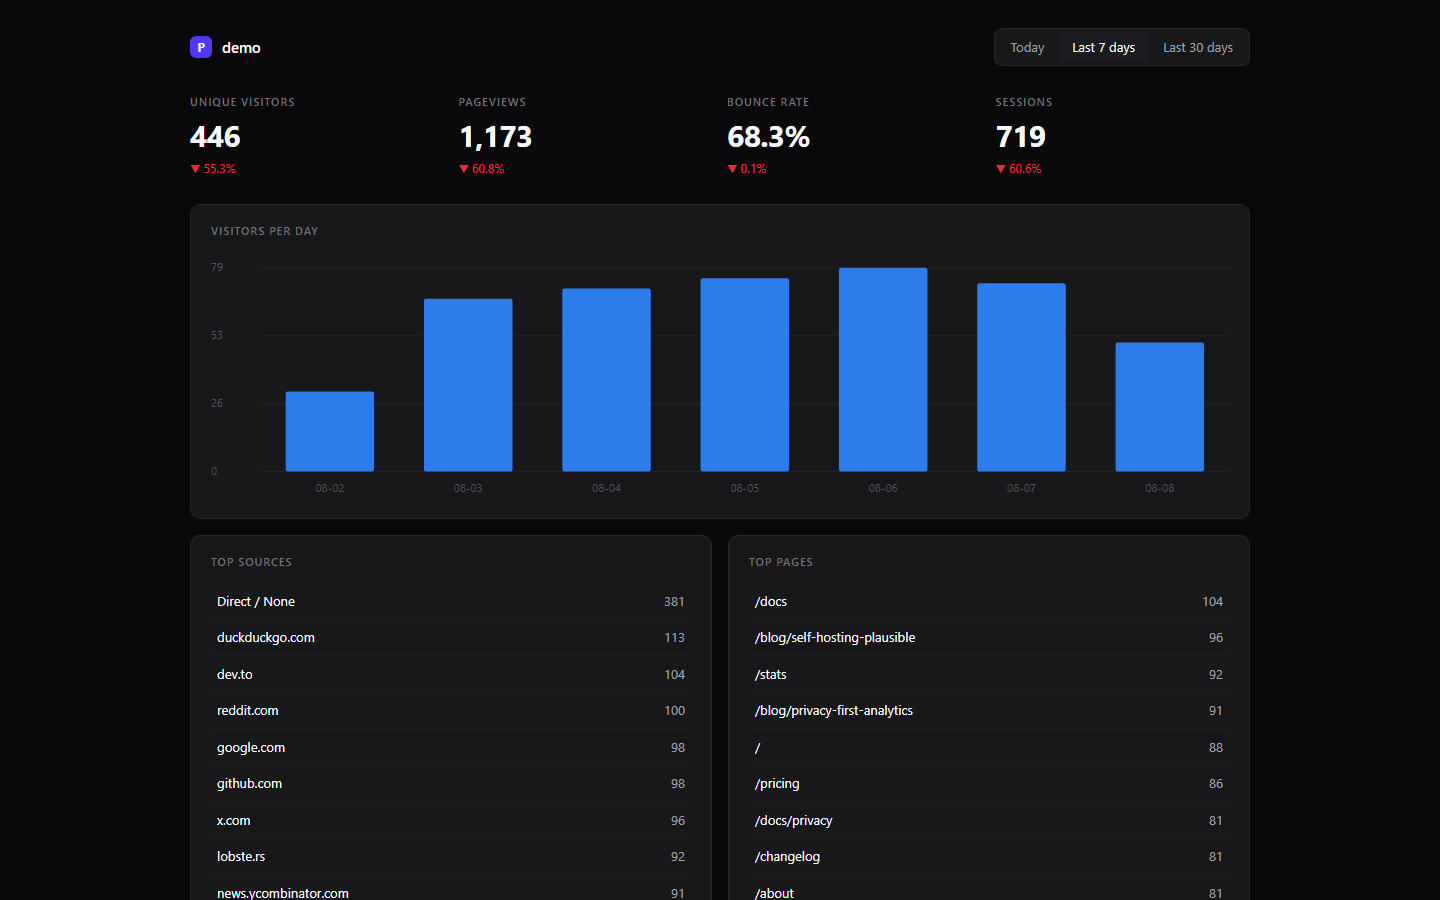
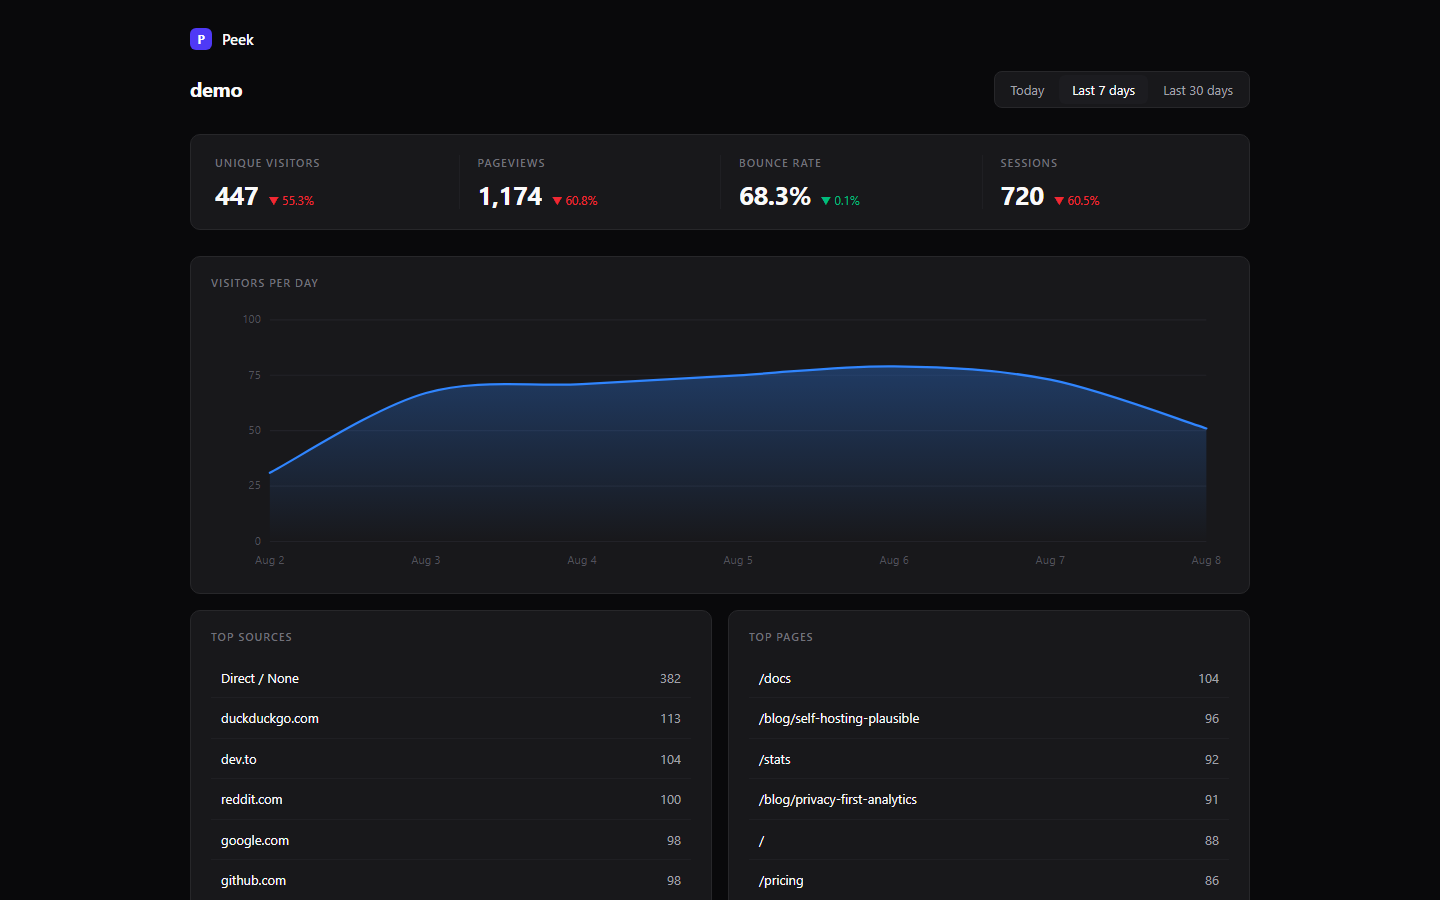
round 2: area chart (gradient, smooth curve, day labels), carded KPIs with dividers, two-row header, roomier tables, bounce trend inversion, trust-proxy loopback, README privacy ceilings

diff --git a/views/dashboard.html b/views/dashboard.html
@@ -10,34 +10,44 @@
 html{color-scheme:dark}
 body{background:var(--bg);color:var(--txt);font:14px/1.5 system-ui,-apple-system,"Segoe UI",Roboto,sans-serif;-webkit-font-smoothing:antialiased}
 .wrap{max-width:1100px;margin:0 auto;padding:28px 20px 64px}
-.top{display:flex;align-items:center;justify-content:space-between;gap:16px;margin-bottom:28px}
-.brand{display:flex;align-items:center;gap:10px;font-weight:600;font-size:15px;letter-spacing:-.01em}
+.brand{display:flex;align-items:center;gap:10px;font-weight:600;font-size:15px;letter-spacing:-.01em;margin-bottom:20px}
 .mark{width:22px;height:22px;border-radius:6px;background:#4f39f6;color:#fff;display:inline-flex;align-items:center;justify-content:center;font-size:12px;font-weight:700}
+.sitebar{display:flex;align-items:center;justify-content:space-between;gap:16px;margin-bottom:26px}
+.sitename{font-size:20px;font-weight:650;letter-spacing:-.015em}
 .ranges{display:flex;gap:2px;background:var(--panel);border:1px solid var(--line);border-radius:8px;padding:3px}
 .ranges a{color:var(--mut);text-decoration:none;padding:5px 13px;border-radius:6px;font-size:13px;transition:background .15s,color .15s}
 .ranges a:hover{color:var(--txt)}
 .ranges a.on{background:var(--panel2);color:var(--txt)}
-.kpis{display:grid;grid-template-columns:repeat(4,1fr);gap:14px;margin-bottom:26px}
+.kpis{display:grid;grid-template-columns:repeat(4,1fr);background:var(--panel);border:1px solid var(--line);border-radius:10px;padding:20px 6px;margin-bottom:26px}
+.kpi{padding:0 18px}
+.kpi+.kpi{border-left:1px solid var(--line2)}
 .kpi h3{font-size:11px;text-transform:uppercase;letter-spacing:.09em;color:var(--dim);font-weight:500;margin-bottom:9px}
-.kpi .num{font-size:30px;font-weight:650;letter-spacing:-.02em;font-variant-numeric:tabular-nums;line-height:1.1}
-.tr{display:inline-block;font-size:12px;margin-top:7px;font-variant-numeric:tabular-nums}
+.kpi .valrow{display:flex;align-items:baseline;gap:10px;flex-wrap:wrap}
+.kpi .num{font-size:26px;font-weight:650;letter-spacing:-.02em;font-variant-numeric:tabular-nums;line-height:1.1}
+.tr{display:inline-block;font-size:12px;font-variant-numeric:tabular-nums}
 .tr.up{color:var(--up)}.tr.down{color:var(--down)}.tr.flat{color:var(--dim)}
 .card{background:var(--panel);border:1px solid var(--line);border-radius:10px;padding:18px 20px;margin-bottom:16px}
 .card h2{font-size:11px;text-transform:uppercase;letter-spacing:.09em;color:var(--dim);font-weight:500;margin-bottom:12px}
 .grid2{display:grid;grid-template-columns:1fr 1fr;gap:16px}
 table{width:100%;border-collapse:collapse}
-th{color:var(--dim);font-weight:500;text-align:left;font-size:11px;text-transform:uppercase;letter-spacing:.06em;padding:0 6px 8px}
-td{padding:8px 6px;border-bottom:1px solid var(--line2);font-size:13px;color:var(--mut)}
+th{color:var(--dim);font-weight:500;text-align:left;font-size:11px;text-transform:uppercase;letter-spacing:.06em;padding:0 10px 10px}
+td{padding:10px 10px;border-bottom:1px solid var(--line2);font-size:13px;color:var(--mut)}
+tbody tr{transition:background .12s}
+tbody tr:hover{background:rgba(255,255,255,.02)}
 td:first-child{color:var(--txt)}
-td:last-child,th:last-child{text-align:right;font-variant-numeric:tabular-nums;color:var(--mut)}
+td:last-child{text-align:right;font-variant-numeric:tabular-nums;color:var(--mut)}
 tr:last-child td{border-bottom:none}
 .empty{color:var(--dim);font-size:13px;padding:10px 2px}
 .chart{width:100%;height:auto;display:block}
 @media (max-width:760px){
   .wrap{padding:20px 14px 48px}
-  .top{flex-direction:column;align-items:flex-start;gap:14px}
-  .kpis{grid-template-columns:repeat(2,1fr);gap:12px}
-  .kpi .num{font-size:24px}
+  .sitebar{flex-direction:column;align-items:flex-start;gap:14px}
+  .kpis{grid-template-columns:repeat(2,1fr);padding:14px 4px}
+  .kpi{padding:12px 14px}
+  .kpi+.kpi{border-left:none}
+  .kpi:nth-child(even){border-left:1px solid var(--line2)}
+  .kpi:nth-child(n+3){border-top:1px solid var(--line2)}
+  .kpi .num{font-size:22px}
   .grid2{grid-template-columns:1fr}
   .card{padding:14px 14px}
 }
@@ -45,15 +55,16 @@ tr:last-child td{border-bottom:none}
 </head>
 <body>
 <div class="wrap">
-  <div class="top">
-    <div class="brand"><span class="mark">P</span>{{SITE}}</div>
+  <div class="brand"><span class="mark">P</span>Peek</div>
+  <div class="sitebar">
+    <div class="sitename">{{SITE}}</div>
     <nav class="ranges" aria-label="Date range">{{RANGE_LINKS}}</nav>
   </div>
   <div class="kpis">
-    <div class="kpi"><h3>Unique visitors</h3><div class="num">{{UV}}</div>{{UV_TREND}}</div>
-    <div class="kpi"><h3>Pageviews</h3><div class="num">{{PV}}</div>{{PV_TREND}}</div>
-    <div class="kpi"><h3>Bounce rate</h3><div class="num">{{BOUNCE}}</div>{{BOUNCE_TREND}}</div>
-    <div class="kpi"><h3>Sessions</h3><div class="num">{{SESSIONS}}</div>{{SESSIONS_TREND}}</div>
+    <div class="kpi"><h3>Unique visitors</h3><div class="valrow"><div class="num">{{UV}}</div>{{UV_TREND}}</div></div>
+    <div class="kpi"><h3>Pageviews</h3><div class="valrow"><div class="num">{{PV}}</div>{{PV_TREND}}</div></div>
+    <div class="kpi"><h3>Bounce rate</h3><div class="valrow"><div class="num">{{BOUNCE}}</div>{{BOUNCE_TREND}}</div></div>
+    <div class="kpi"><h3>Sessions</h3><div class="valrow"><div class="num">{{SESSIONS}}</div>{{SESSIONS_TREND}}</div></div>
   </div>
   <div class="card">
     <h2>Visitors per day</h2>

diff --git a/lib.js b/lib.js
@@ -135,30 +135,52 @@ function perHour(site, startTs, endTs) {
 
 const fmt = n => n >= 10000 ? (n / 1000).toFixed(1) + 'k' : String(n).replace(/\B(?=(\d{3})+(?!\d))/g, ',');
 
-// Inline SVG bar chart, zero client JS. mode: 'day' or 'hour'.
+function niceMax(v) {
+  if (v <= 0) return 1;
+  const step = Math.pow(10, Math.floor(Math.log10(v)));
+  const m = v / step;
+  return (m <= 1 ? 1 : m <= 2 ? 2 : m <= 5 ? 5 : 10) * step;
+}
+
+function fmtDay(d) { // '2026-08-02' -> 'Aug 2'
+  const [y, m, dd] = d.split('-').map(Number);
+  return new Date(Date.UTC(y, m - 1, dd)).toLocaleString('en-US', { month: 'short', day: 'numeric', timeZone: 'UTC' });
+}
+
+// Inline SVG area chart (Plausible-style), zero client JS. mode: 'day' or 'hour'.
 function chartSVG(points, mode) {
-  const W = 900, H = 220, padB = 26, padT = 14, padL = 44;
-  const max = Math.max(1, ...points.map(p => p.uv));
-  const bw = (W - padL) / points.length;
-  const hgt = v => (v / max) * (H - padB - padT);
+  const W = 900, H = 240, padL = 52, padR = 20, padT = 14, padB = 30;
+  const max = niceMax(Math.max(1, ...points.map(p => p.uv)));
+  const iw = W - padL - padR, ih = H - padT - padB;
+  const X = i => padL + (points.length === 1 ? iw / 2 : (i / (points.length - 1)) * iw);
+  const Y = v => padT + ih - (v / max) * ih;
   let out = '';
-  for (let i = 0; i <= 3; i++) {
-    const y = H - padB - (i / 3) * (H - padB - padT);
-    out += `<line x1="${padL}" y1="${y}" x2="${W}" y2="${y}" stroke="#222228" stroke-width="1"/>`;
-    out += `<text x="0" y="${y + 3}" fill="#52525b" font-size="10">${fmt(Math.round((max * i) / 3))}</text>`;
+  for (let g = 0; g <= 4; g++) {
+    const v = (max / 4) * g, y = Y(v);
+    out += `<line x1="${padL}" y1="${y}" x2="${W - padR}" y2="${y}" stroke="#222228" stroke-width="1"/>`;
+    out += `<text x="${padL - 8}" y="${y + 3}" fill="#52525b" font-size="10" text-anchor="end">${fmt(v)}</text>`;
   }
+  const pts = points.map((p, i) => [X(i), Y(p.uv)]);
+  let d = `M ${pts[0][0]} ${pts[0][1]}`;
+  for (let i = 0; i < pts.length - 1; i++) {
+    const p0 = pts[Math.max(0, i - 1)], p1 = pts[i], p2 = pts[i + 1], p3 = pts[Math.min(pts.length - 1, i + 2)];
+    const c1x = p1[0] + (p2[0] - p0[0]) / 6, c1y = p1[1] + (p2[1] - p0[1]) / 6;
+    const c2x = p2[0] - (p3[0] - p1[0]) / 6, c2y = p2[1] - (p3[1] - p1[1]) / 6;
+    d += ` C ${c1x} ${c1y}, ${c2x} ${c2y}, ${p2[0]} ${p2[1]}`;
+  }
+  const area = `${d} L ${pts[pts.length - 1][0]} ${padT + ih} L ${pts[0][0]} ${padT + ih} Z`;
+  out += '<defs><linearGradient id="fill" x1="0" y1="0" x2="0" y2="1"><stop offset="0" stop-color="#3085fe" stop-opacity="0.32"/><stop offset="1" stop-color="#3085fe" stop-opacity="0"/></linearGradient></defs>';
+  out += `<path d="${area}" fill="url(#fill)"/>`;
+  out += `<path d="${d}" fill="none" stroke="#3085fe" stroke-width="2" stroke-linejoin="round" stroke-linecap="round"/>`;
   points.forEach((p, i) => {
-    const x = padL + i * bw + bw * 0.18, w = bw * 0.64, h = hgt(p.uv), y = H - padB - h;
     const label = mode === 'hour' ? `${String(p.h).padStart(2, '0')}:00` : p.day;
-    out += `<rect x="${x}" y="${y}" width="${w}" height="${h}" rx="2" fill="#3085fe" opacity="${p.uv ? 0.92 : 0.12}"><title>${label} - ${fmt(p.uv)} visitors</title></rect>`;
+    out += `<circle cx="${X(i)}" cy="${Y(p.uv)}" r="3" fill="transparent"><title>${label} - ${fmt(p.uv)} visitors</title></circle>`;
   });
-  const ticks = 6;
-  const step = Math.max(1, Math.floor(points.length / ticks));
+  const step = Math.max(1, Math.floor(points.length / 6));
   for (let i = 0; i < points.length; i += step) {
     const p = points[i];
-    const label = mode === 'hour' ? `${String(p.h).padStart(2, '0')}h` : p.day.slice(5);
-    const x = padL + i * bw + bw * 0.5;
-    out += `<text x="${x}" y="${H - 8}" fill="#52525b" font-size="10" text-anchor="middle">${label}</text>`;
+    const label = mode === 'hour' ? `${String(p.h).padStart(2, '0')}h` : fmtDay(p.day);
+    out += `<text x="${X(i)}" y="${H - 10}" fill="#52525b" font-size="10" text-anchor="middle">${label}</text>`;
   }
   return `<svg class="chart" viewBox="0 0 ${W} ${H}" role="img" aria-label="Visitors per ${mode}">${out}</svg>`;
 }

diff --git a/server.js b/server.js
@@ -10,7 +10,7 @@ const lib = require('./lib');
 const PORT = process.env.PORT || 8000;
 const SITE = process.env.SITE || 'demo';
 const app = express();
-app.set('trust proxy', true); // honor X-Forwarded-For when behind nginx/caddy
+app.set('trust proxy', 'loopback'); // trust nginx/caddy on this host only; remote XFF spoofing is rejected
 app.disable('x-powered-by');
 
 const SNIPPET = fs.readFileSync(path.join(__dirname, 'public', 'snippet.js'));
@@ -51,11 +51,13 @@ app.get('/api/event', (req, res) => {
 
 const esc = s => String(s).replace(/[&<>"']/g, c => ({ '&': '&amp;', '<': '&lt;', '>': '&gt;', '"': '&quot;', "'": '&#39;' }[c]));
 
-function trend(cur, prev) {
+function trend(cur, prev, invert) {
   if (!prev) return '<span class="tr flat">no data</span>';
   const pct = Math.round(((cur - prev) / prev) * 1000) / 10;
-  const cls = pct > 0 ? 'up' : pct < 0 ? 'down' : 'flat';
-  const arrow = pct > 0 ? '\u25B2' : pct < 0 ? '\u25BC' : '\u25CF';
+  if (pct === 0) return '<span class="tr flat">\u25CF 0%</span>';
+  const up = invert ? pct < 0 : pct > 0; // bounce: rising is bad
+  const cls = up ? 'up' : 'down';
+  const arrow = pct > 0 ? '\u25B2' : '\u25BC';
   return `<span class="tr ${cls}">${arrow} ${Math.abs(pct)}%</span>`;
 }
 
@@ -101,7 +103,7 @@ function renderDashboard(req, res) {
     .replaceAll('{{RANGE_LINKS}}', links)
     .replaceAll('{{UV}}', lib.fmt(cur.uv)).replaceAll('{{UV_TREND}}', trend(cur.uv, prev.uv))
     .replaceAll('{{PV}}', lib.fmt(cur.pv)).replaceAll('{{PV_TREND}}', trend(cur.pv, prev.pv))
-    .replaceAll('{{BOUNCE}}', cur.bounce + '%').replaceAll('{{BOUNCE_TREND}}', trend(cur.bounce, prev.bounce))
+    .replaceAll('{{BOUNCE}}', cur.bounce + '%').replaceAll('{{BOUNCE_TREND}}', trend(cur.bounce, prev.bounce, true))
     .replaceAll('{{SESSIONS}}', lib.fmt(cur.sessions)).replaceAll('{{SESSIONS_TREND}}', trend(cur.sessions, prev.sessions))
     .replaceAll('{{CHART}}', chart)
     .replaceAll('{{REFS}}', rows(lib.topRefs(SITE, Math.floor(start / 1000)), 'ref'))

diff --git a/README.md b/README.md
@@ -66,6 +66,14 @@ Dashboard: http://localhost:8000/dashboard (basic auth). Ranges: today / 7d / 30
 | Bounce rate | sessions with exactly one pageview / all sessions |
 | Sessionization | server-side idle cutoff of 30 minutes (in-memory) |
 
+Known privacy ceilings, stated honestly: (1) the operator of this instance can
+correlate a visitor across *their own* sites (same IP+UA hashes identically on
+the same day) - fine for a personal site, not a shared service; (2) the
+visitor hash is daily, so 30-day unique counts are per-day uniques summed by
+SQLite's `COUNT(DISTINCT)` semantics only within a day; (3) `trust proxy` is
+set to `loopback` so a reverse proxy on the same host (nginx/caddy) is honored
+but remote `X-Forwarded-For` spoofing is rejected.
+
 ## Checks
 
 ```bash
